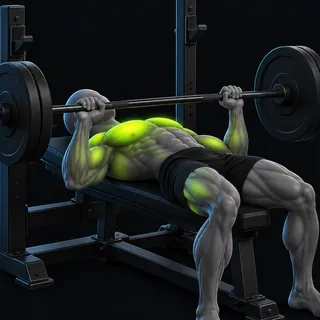
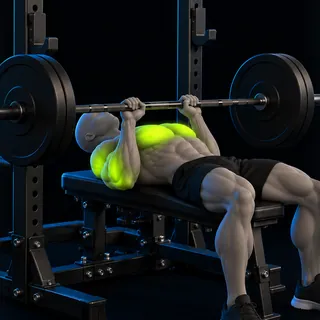
Imágenes de 12 ejercicios más y nueva de press banca plano, con sus pasos
Nuevas: patada de glúteo en polea, hip thrust, hip thrust a una pierna,
press francés con barra Z, curl Scott con barra Z, remo con mancuernas pecho
apoyado, elevación lateral en polea, extensión de tríceps en polea y con
cuerda, face pull, curl en polea baja y jalón agarre neutro. Se reemplaza
la de press banca plano (la anterior iluminaba el muslo y la figura estaba
descalza). Miniaturas recortadas desde arriba en las figuras de pie.

Claude-Session: https://claude.ai/code/session_01TBDEA3ZRisCYr87RAhCu9n

diff --git a/js/38-entreno.js b/js/38-entreno.js
@@ -147,6 +147,18 @@ const EJ_PASOS = {
   'elevacion-de-rodillas-en-banco':{e:'Una banca',p:['Siéntate en la orilla de la banca, inclínate un poco atrás y sujétate de los lados.','Sube las rodillas hacia el pecho contrayendo el abdomen.','Baja las piernas despacio sin tocar el piso y repite.'],x:'Echar el torso atrás de golpe para impulsar las piernas.'},
   'fondos-en-banco':{e:'Una banca',p:['Apoya las dos manos en la orilla de la banca detrás de la cadera, con los dedos hacia el frente.','Estira las piernas al frente y baja doblando los codos hasta unos 90°, con la espalda cerca de la banca.','Empuja hasta estirar los brazos sin bloquear los codos.'],x:'Abrir los codos hacia los lados o alejar la cadera de la banca.'},
   'bird-dog':{e:'Ninguno',p:['Colócate en cuatro puntos con las manos bajo los hombros, las rodillas bajo la cadera y la espalda recta.','Estira un brazo al frente y la pierna contraria atrás hasta dejarlos paralelos al piso.','Sostén un segundo, regresa con control y cambia de lado.'],x:'Girar la cadera o arquear la espalda al subir la pierna.'},
+  'patada-de-gluteo-en-polea':{e:'Polea baja con tobillera',p:['Coloca la tobillera, toma la columna con las manos e inclina el tronco al frente.','Lleva la pierna hacia atrás y arriba con la rodilla casi recta, apretando el glúteo al final.','Regresa lento sin dejar que la pesa toque el tope y repite antes de cambiar de pierna.'],x:'Arquear la espalda baja para subir más la pierna; el movimiento termina cuando la cadera ya no se extiende.'},
+  'hip-thrust-a-una-pierna':{e:'Banca',p:['Apoya la parte alta de la espalda en la banca, un pie firme en el piso y la otra rodilla hacia el pecho.','Empuja con el talón y sube la cadera hasta alinear rodilla, cadera y hombros.','Aprieta el glúteo un segundo arriba y baja controlado sin que la cadera rote.'],x:'Dejar que la cadera se caiga hacia el lado de la pierna que está en el aire.'},
+  'press-frances-con-barra-z':{e:'Barra Z y banca plana',p:['Acuéstate en la banca con la barra Z sobre el pecho, brazos estirados y agarre cerrado.','Dobla solo los codos y baja la barra hacia la frente o un poco detrás de la cabeza.','Extiende los codos para regresar, sin mover los hombros.'],x:'Abrir los codos hacia los lados; deben apuntar al techo todo el recorrido.'},
+  'curl-scott-con-barra-z':{e:'Banco Scott y barra Z',p:['Siéntate y apoya la parte de atrás de los brazos completa sobre el cojín.','Sube la barra doblando los codos hasta que los antebrazos queden casi verticales.','Baja lento hasta casi estirar los brazos, sin despegarlos del cojín.'],x:'Soltar la barra de golpe abajo y estirar el codo por completo con peso; baja controlado.'},
+  'remo-con-mancuernas-pecho-apoyado':{e:'Banca inclinada y dos mancuernas',p:['Ajusta la banca a unos 30-45° y acuéstate boca abajo con el pecho apoyado.','Con una mancuerna en cada mano, jala los codos hacia atrás pegados al cuerpo.','Junta los omóplatos arriba un segundo y baja hasta estirar los brazos.'],x:'Despegar el pecho de la banca para impulsarse; el pecho se queda apoyado siempre.'},
+  'elevacion-lateral-en-polea':{e:'Polea baja con maneral',p:['Párate de lado a la polea y toma el maneral con la mano más lejana; el cable cruza frente a tu cuerpo.','Sube el brazo hacia el lado con el codo ligeramente doblado hasta la altura del hombro.','Baja lento resistiendo el cable, sin dejar que la pesa descanse.'],x:'Encoger el hombro y subir con el trapecio; lleva el movimiento con el codo, no con la mano.'},
+  'extension-de-triceps-en-polea':{e:'Polea alta con barra corta',p:['Toma la barra con las palmas hacia abajo y pega los codos a los costados.','Empuja hacia abajo hasta estirar los brazos por completo.','Sube despacio hasta que los antebrazos queden paralelos al piso, sin mover los codos.'],x:'Separar los codos del cuerpo y empujar con los hombros; solo se mueven los antebrazos.'},
+  'extension-de-triceps-con-cuerda':{e:'Polea alta con cuerda',p:['Toma la cuerda con las palmas enfrentadas y los codos pegados al cuerpo.','Empuja hacia abajo y al final separa los extremos de la cuerda hacia los lados.','Regresa lento hasta la altura del pecho manteniendo los codos fijos.'],x:'Inclinarse sobre la cuerda y usar el peso del cuerpo para bajarla.'},
+  'face-pull':{e:'Polea alta con cuerda',p:['Pon la polea a la altura de la cara y toma la cuerda con las palmas hacia abajo.','Jala la cuerda hacia la cara separando las manos, con los codos altos y abiertos.','Al final rota los brazos hacia atrás, pausa un segundo y regresa lento.'],x:'Bajar los codos y convertirlo en un remo; los codos van a la altura de los hombros.'},
+  'curl-en-polea-baja':{e:'Polea baja con barra',p:['Párate frente a la polea y toma la barra con las palmas hacia arriba, codos pegados.','Dobla los codos y sube la barra hasta la altura del pecho.','Baja despacio resistiendo el cable hasta casi estirar los brazos.'],x:'Balancear el torso hacia atrás para subir; el cuerpo se queda quieto.'},
+  'jalon-agarre-neutro':{e:'Polea alta con agarre en V (triángulo)',p:['Siéntate con los muslos bajo el soporte y toma el triángulo con las palmas enfrentadas.','Jala hacia la parte alta del pecho llevando los codos hacia abajo y atrás.','Sube lento hasta estirar los brazos, sintiendo cómo se abre la espalda.'],x:'Echarse muy atrás y jalar con los brazos; el tronco se inclina poco y el dorsal hace el trabajo.'},
+  'hip-thrust':{e:'Banca y barra con discos',p:['Apoya la parte alta de la espalda en la banca y coloca la barra sobre el pliegue de la cadera.','Con los pies firmes al ancho de la cadera, empuja con los talones y sube hasta alinear rodillas, cadera y hombros.','Aprieta el glúteo un segundo arriba y baja controlado sin tocar el piso.'],x:'Arquear la espalda baja arriba; la cadera termina en línea recta y la barbilla va hacia el pecho.'},
   'elevacion-de-talones-de-pie':{e:'Máquina de pantorrilla de pie',p:['Apoya la punta de los pies en el borde.','Baja el talón hasta sentir el estiramiento.','Sube lo más alto que puedas y aguanta 1 segundo.'],x:'Rebotar abajo y hacer el movimiento corto.'}
 };
 // ── Videos en bucle del estilo nuevo (img/ejercicios/<nombre>.webm y .mp4, 4:5, sin audio).

diff --git a/sw.js b/sw.js
@@ -8,7 +8,7 @@
    → Los datos de Firebase NUNCA pasan por aquí (van directo).
    → Al desplegar cambios, sube CACHE_VERSION.
    ════════════════════════════════════════════════════════ */
-const CACHE_VERSION = 'fitnesspro-v78';
+const CACHE_VERSION = 'fitnesspro-v79';
 const PRECACHE_LOCAL = [
   './',
   './index.html',

diff --git a/docs/IMAGENES-EJERCICIOS.md b/docs/IMAGENES-EJERCICIOS.md
@@ -115,9 +115,9 @@ Hay **226 ejercicios** en el catálogo:
 
 | Estado | Ejercicios | Qué significa |
 |---|---|---|
-| **Listo** | 136 | En el estilo nuevo: 3 ejercicios con imagen y video (sentadilla goblet, peso muerto rumano con mancuernas y sentadilla libre) y 133 con imagen. |
+| **Listo** | 148 | En el estilo nuevo: 3 ejercicios con imagen y video (sentadilla goblet, peso muerto rumano con mancuernas y sentadilla libre) y 145 con imagen. |
 | **Rehacer** | 0 | Ya no queda ninguna imagen del estilo anterior. |
-| **Falta** | 90 | No tienen imagen. |
+| **Falta** | 78 | No tienen imagen. |
 
 Siguiente paso: los ejercicios marcados como **Falta**, empezando por los compuestos de cada zona.
 
@@ -288,21 +288,21 @@ Siguiente paso: los ejercicios marcados como **Falta**, empezando por los compue
 
 | Ejercicio | Archivo | Músculos | Estado |
 |---|---|---|---|
-| Hip thrust | `hip-thrust` | Glúteo mayor | Falta |
+| Hip thrust | `hip-thrust` | Glúteo mayor | **Listo** (imagen) |
 | Hiperextensión 45° | `hiperextension-45` | Erectores · Glúteo | Falta |
 | Press banca plano | `press-banca-plano` | Pecho mayor · Tríceps | **Listo** (imagen) |
 | Press inclinado con barra | `press-inclinado-con-barra` | Pecho superior | Falta |
-| Press francés con barra Z | `press-frances-con-barra-z` | Tríceps (porción larga) | Falta |
+| Press francés con barra Z | `press-frances-con-barra-z` | Tríceps (porción larga) | **Listo** (imagen) |
 | Press banca agarre cerrado | `press-banca-agarre-cerrado` | Tríceps · Pecho | Falta |
-| Hip thrust a una pierna | `hip-thrust-a-una-pierna` | Glúteo mayor | Falta |
-| Remo con mancuernas pecho apoyado | `remo-con-mancuernas-pecho-apoyado` | Espalda media · Dorsal | Falta |
-| Curl Scott con barra Z | `curl-scott-con-barra-z` | Bíceps | Falta |
+| Hip thrust a una pierna | `hip-thrust-a-una-pierna` | Glúteo mayor | **Listo** (imagen) |
+| Remo con mancuernas pecho apoyado | `remo-con-mancuernas-pecho-apoyado` | Espalda media · Dorsal | **Listo** (imagen) |
+| Curl Scott con barra Z | `curl-scott-con-barra-z` | Bíceps | **Listo** (imagen) |
 
 ### Poleas / cables
 
 | Ejercicio | Archivo | Músculos | Estado |
 |---|---|---|---|
-| Patada de glúteo en polea | `patada-de-gluteo-en-polea` | Glúteo mayor | Falta |
+| Patada de glúteo en polea | `patada-de-gluteo-en-polea` | Glúteo mayor | **Listo** (imagen) |
 | Cruce de poleas | `cruce-de-poleas` | Pecho (porción media) | **Listo** (imagen) |
 | Cruce de poleas de abajo hacia arriba | `cruce-de-poleas-de-abajo-hacia-arriba` | Pecho superior | Falta |
 | Cruce de poleas de arriba hacia abajo | `cruce-de-poleas-de-arriba-hacia-abajo` | Pecho inferior | **Listo** (imagen) |
@@ -310,20 +310,20 @@ Siguiente paso: los ejercicios marcados como **Falta**, empezando por los compue
 | Jalón unilateral en polea | `jalon-unilateral-en-polea` | Dorsal ancho | Falta |
 | Pullover en polea alta | `pullover-en-polea-alta` | Dorsal ancho | **Listo** (imagen) |
 | Remo en polea baja | `remo-en-polea-baja` | Dorsal · Romboides | **Listo** (imagen) |
-| Face pull | `face-pull` | Deltoides posterior · Manguito | Falta |
-| Elevación lateral en polea | `elevacion-lateral-en-polea` | Deltoides lateral | Falta |
+| Face pull | `face-pull` | Deltoides posterior · Manguito | **Listo** (imagen) |
+| Elevación lateral en polea | `elevacion-lateral-en-polea` | Deltoides lateral | **Listo** (imagen) |
 | Elevación frontal en polea | `elevacion-frontal-en-polea` | Deltoides anterior | Falta |
 | Rotación externa en polea | `rotacion-externa-en-polea` | Manguito rotador | Falta |
-| Curl en polea baja | `curl-en-polea-baja` | Bíceps | Falta |
+| Curl en polea baja | `curl-en-polea-baja` | Bíceps | **Listo** (imagen) |
 | Curl martillo en polea con cuerda | `curl-martillo-en-polea-con-cuerda` | Braquial | Falta |
-| Extensión de tríceps en polea | `extension-de-triceps-en-polea` | Tríceps | Falta |
+| Extensión de tríceps en polea | `extension-de-triceps-en-polea` | Tríceps | **Listo** (imagen) |
 | Press Pallof | `press-pallof` | Core antirrotación | **Listo** (imagen) |
 | Crunch en polea | `crunch-en-polea` | Recto abdominal | Falta |
 | Abducción de cadera en polea | `abduccion-de-cadera-en-polea` | Glúteo medio | Falta |
 | Pull-through en polea | `pull-through-en-polea` | Glúteo · Femorales | Falta |
 | Curl femoral en polea con tobillera | `curl-femoral-en-polea-con-tobillera` | Femorales | Falta |
-| Jalón agarre neutro | `jalon-agarre-neutro` | Dorsal · Bíceps | Falta |
-| Extensión de tríceps con cuerda | `extension-de-triceps-con-cuerda` | Tríceps | Falta |
+| Jalón agarre neutro | `jalon-agarre-neutro` | Dorsal · Bíceps | **Listo** (imagen) |
+| Extensión de tríceps con cuerda | `extension-de-triceps-con-cuerda` | Tríceps | **Listo** (imagen) |
 | Pallof isométrico (sostén al frente) | `pallof-isometrico-sosten-al-frente` | Core · Oblicuos | **Listo** (imagen) |
 | Leñador en polea | `lenador-en-polea` | Oblicuos · Core | Falta |
 
